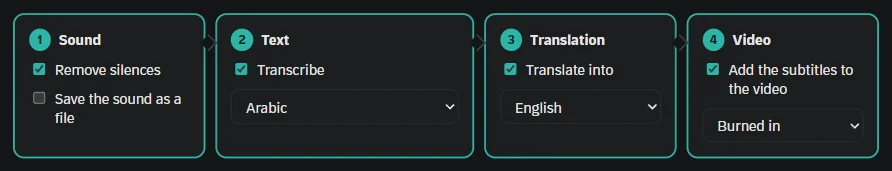
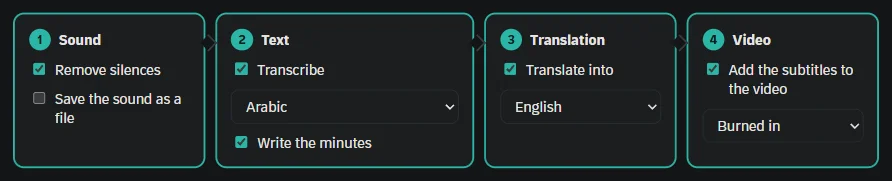
How to use: a part on the minutes and the steps with Write the minutes, in English and Arabic; README pictures of the start page and the minutes [skip ci]

diff --git a/ui/minutes.css b/ui/minutes.css
@@ -35,8 +35,8 @@
 }
 .minutes-text:focus { background: var(--panel); box-shadow: 0 0 0 2px var(--accent); }
 .minutes-text.summary { font-size: 17px; }
-.minutes-text:empty::before { content: attr(data-ph); color: var(--muted); }
-.minutes-action { display: grid; grid-template-columns: minmax(80px, max-content) 1fr minmax(80px, max-content); gap: 4px 14px; align-items: start; }
+.minutes-text:empty:focus::before { content: attr(data-ph); color: var(--muted); }
+.minutes-action { display: grid; grid-template-columns: 120px 1fr 150px; gap: 4px 14px; align-items: start; }
 .minutes-action .who { font-weight: 600; }
 .minutes-action .due { color: var(--muted); }
 .minutes-item.edited .minutes-text { text-decoration: underline dotted var(--muted); text-underline-offset: 5px; }

diff --git a/src-tauri/src/minutes_commands.rs b/src-tauri/src/minutes_commands.rs
@@ -26,7 +26,8 @@ pub fn edit_minutes(core: C, id: String, minutes: Minutes) -> R<Minutes> {
 #[tauri::command]
 pub fn minutes_outdated(core: C, id: String) -> R<bool> {
     let t = core.transcript(&id).map_err(e)?;
-    Ok(t.minutes.as_ref().filter(|m| m.written()).is_some_and(|m| m.from != minutes::fingerprint(&t)))
+    // minutes that do not say what they were written from cannot tell
+    Ok(t.minutes.as_ref().filter(|m| m.written() && !m.from.is_empty()).is_some_and(|m| m.from != minutes::fingerprint(&t)))
 }
 
 #[derive(serde::Serialize)]
